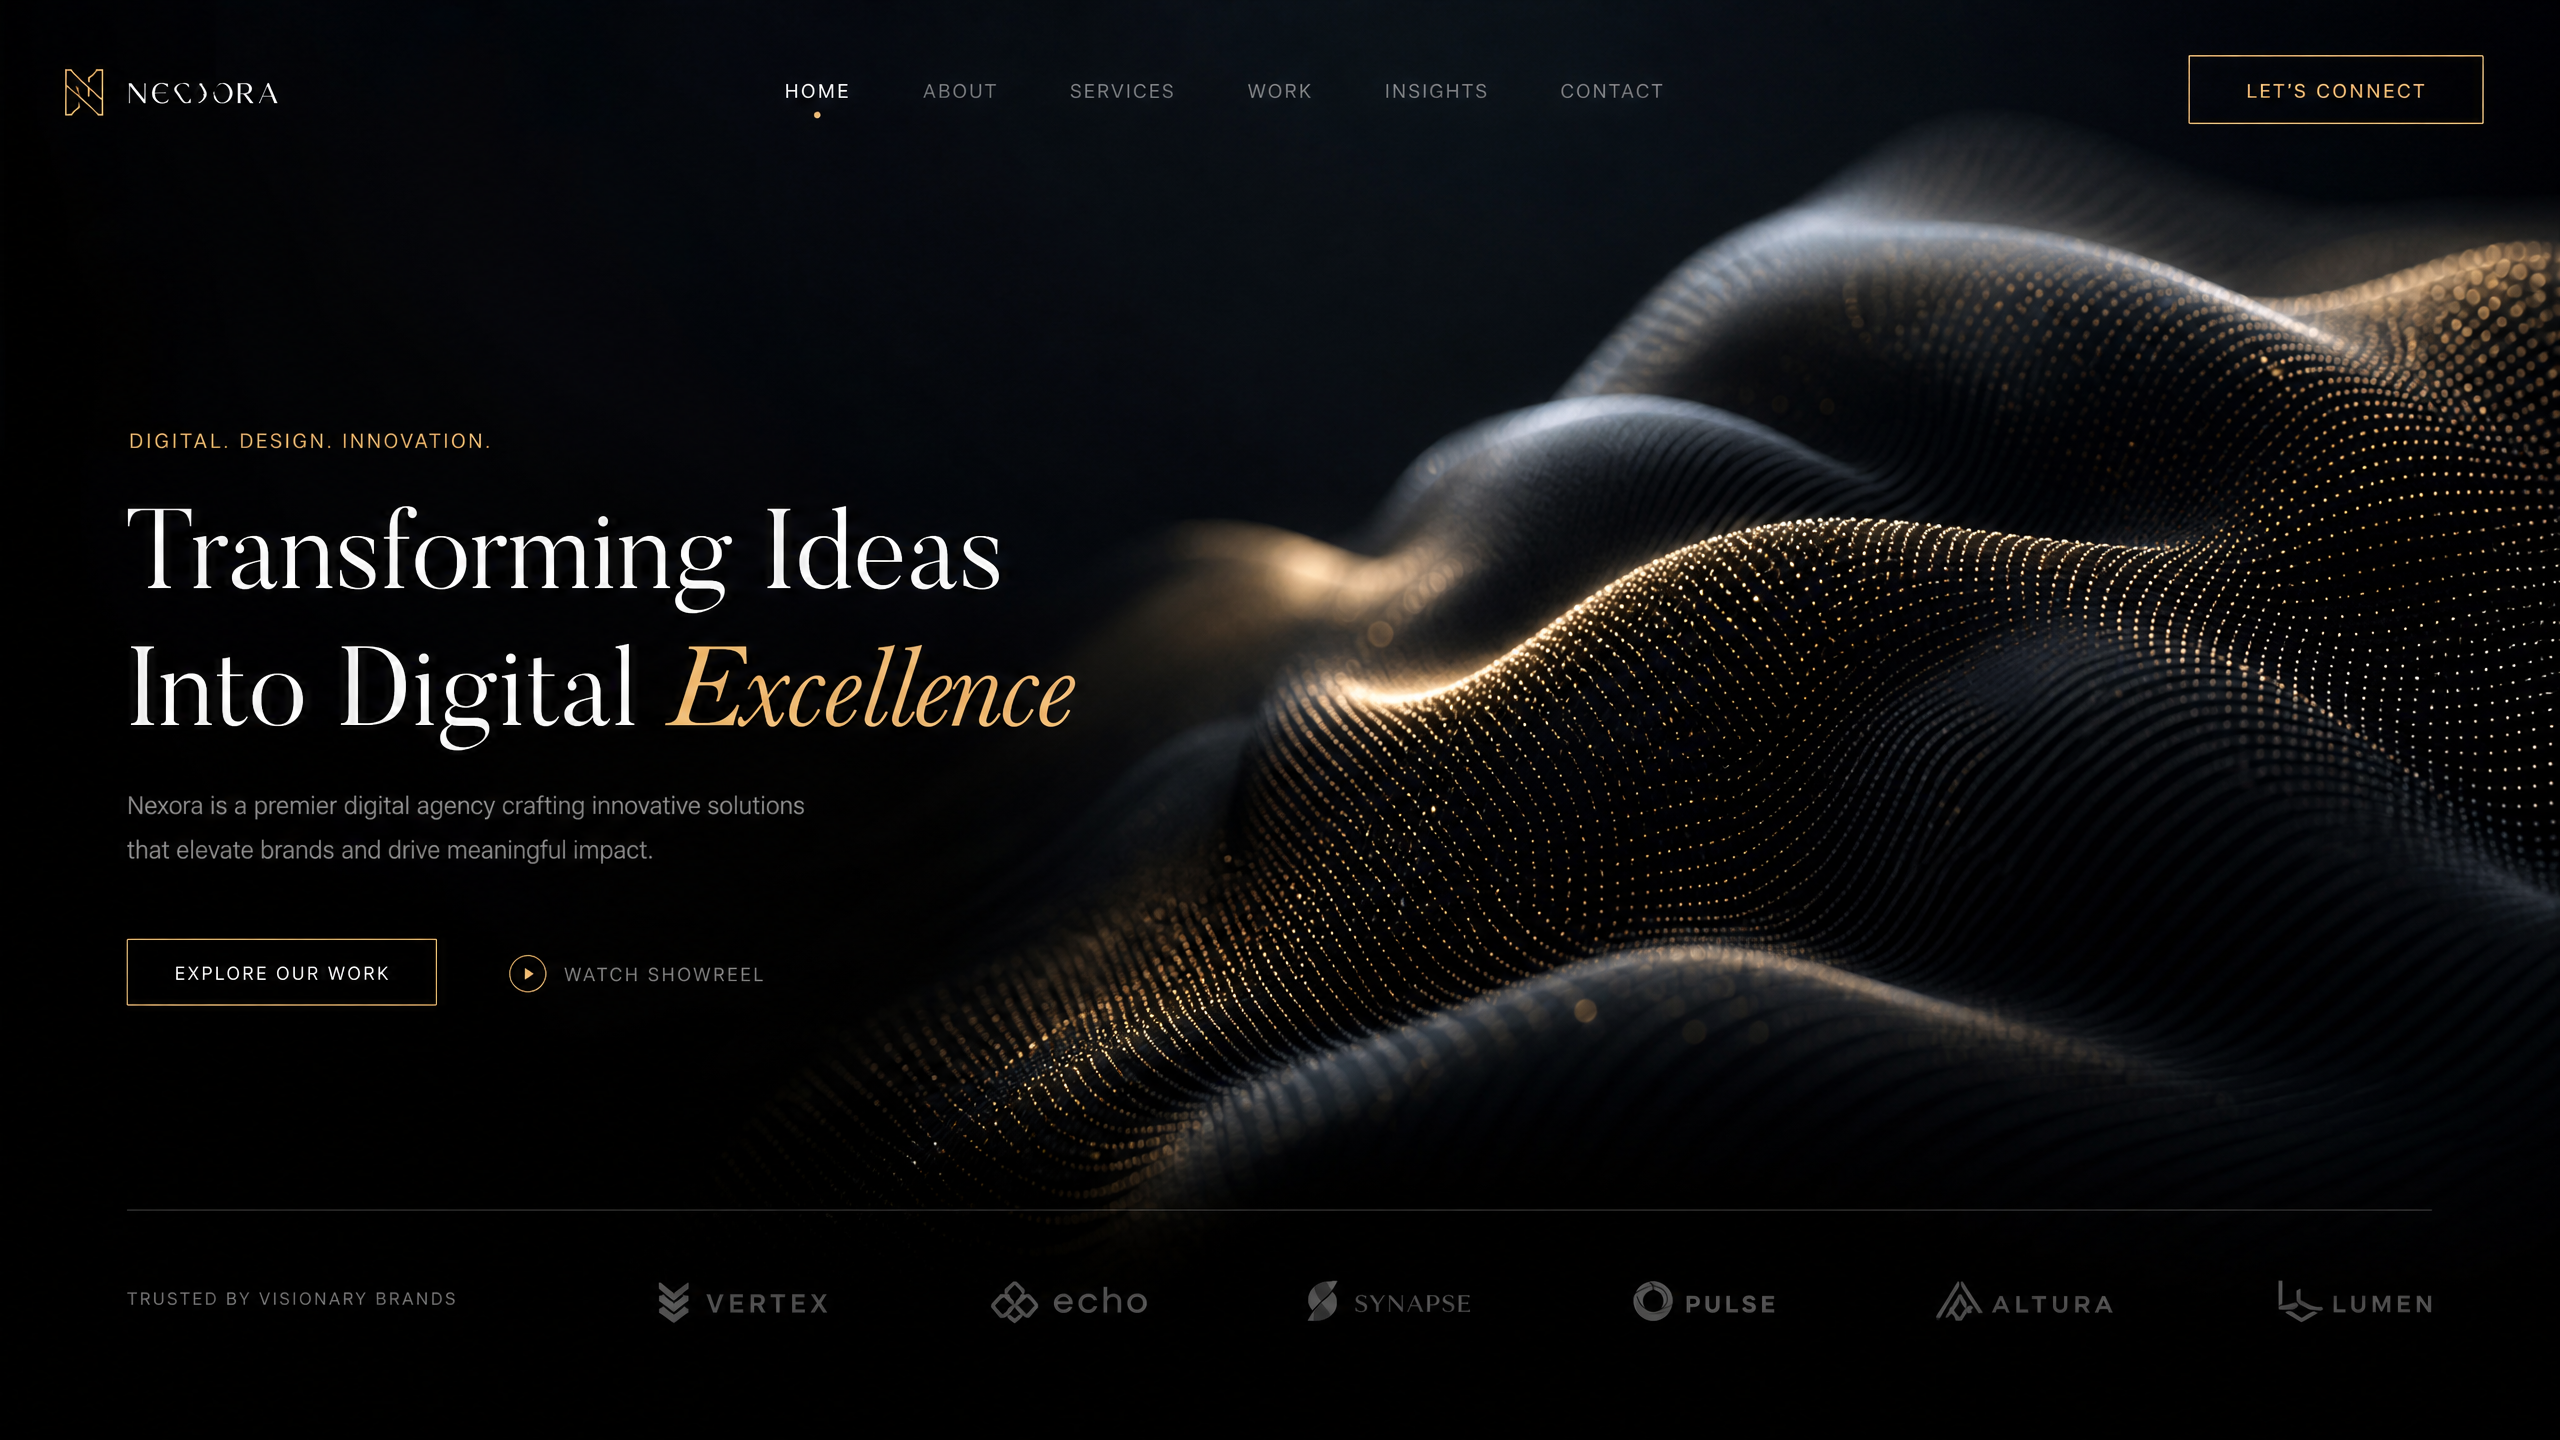
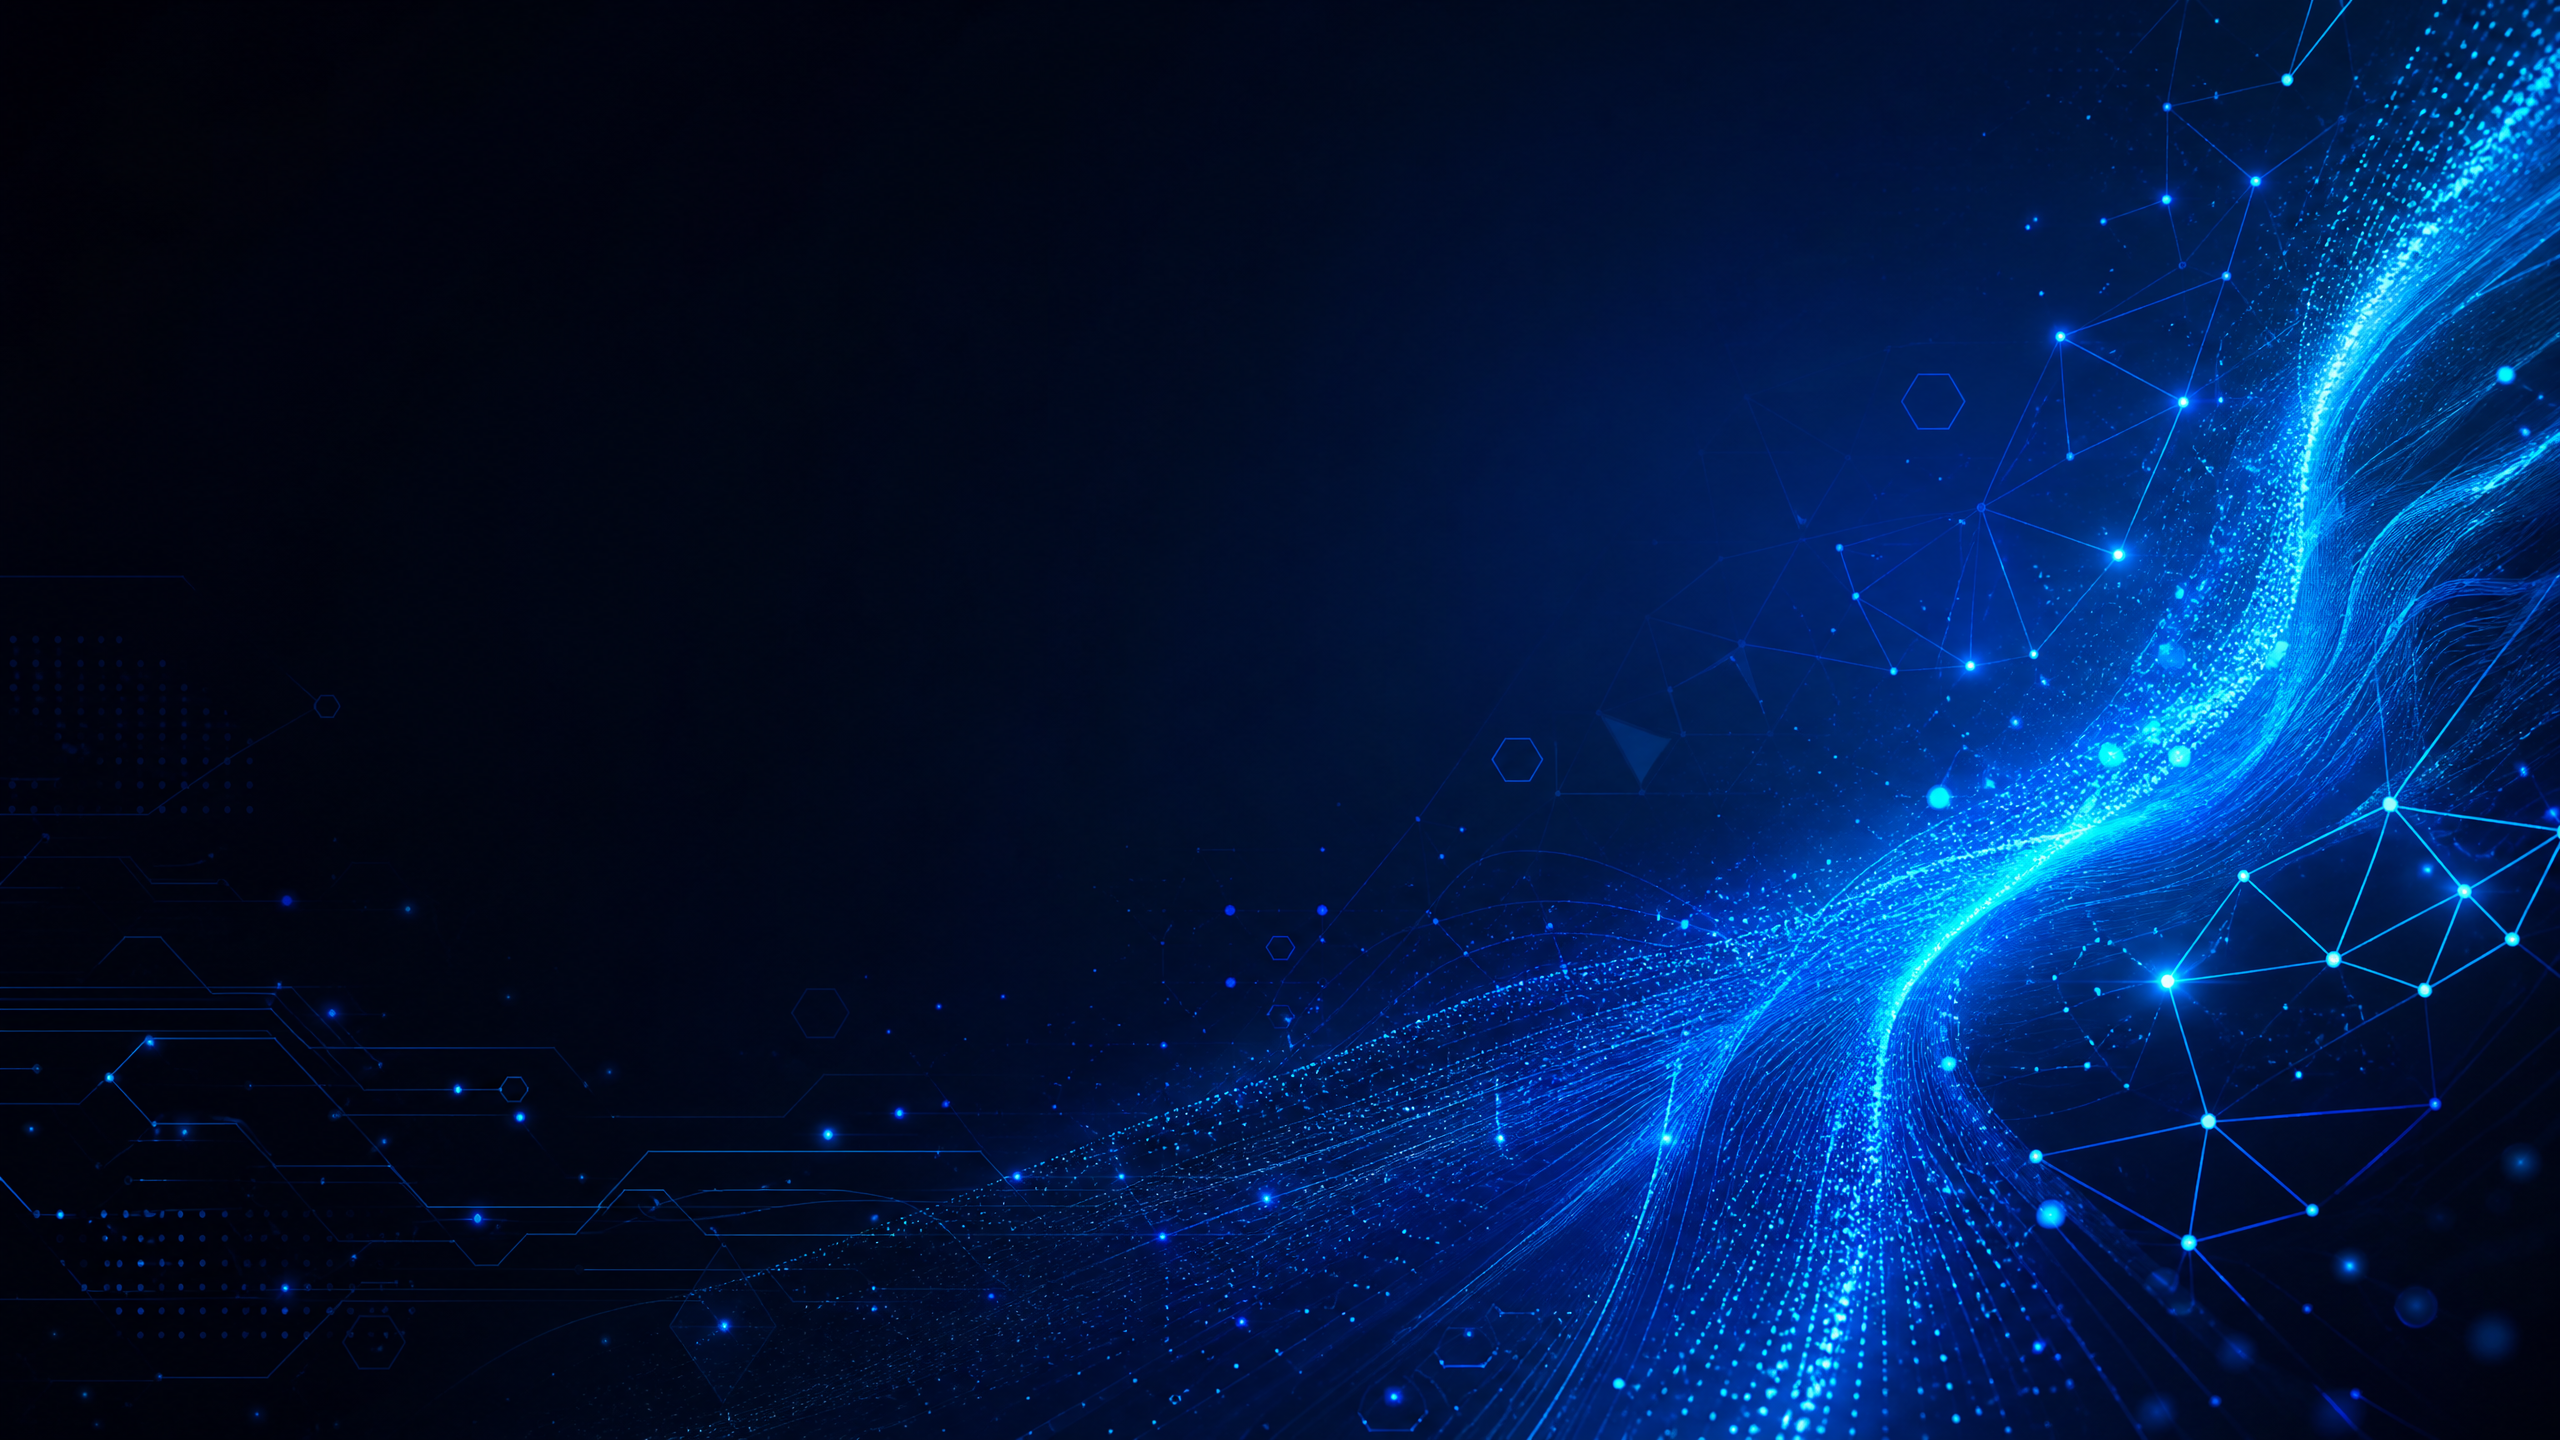
fix: إصلاح شامل - خلفية Hero جديدة، إخفاء زر اللغة على الهاتف، إصلاح عداد الإحصائيات، تحسين CSS للهاتف

diff --git a/script.js b/script.js
@@ -93,40 +93,51 @@ window.addEventListener('scroll', () => {
     lastScrollTop = scrollTop;
 });
 
-// Counter Animation for Statistics
+// Counter Animation for Statistics - Fixed
 function animateCounter(element, target, duration = 2000) {
     let current = 0;
-    const increment = target / (duration / 16);
+    const step = target / Math.ceil(duration / 16);
+    let startTime = null;
     
-    const counter = setInterval(() => {
-        current += increment;
-        if (current >= target) {
-            element.textContent = target;
-            clearInterval(counter);
+    function update(timestamp) {
+        if (!startTime) startTime = timestamp;
+        const elapsed = timestamp - startTime;
+        const progress = Math.min(elapsed / duration, 1);
+        current = Math.floor(progress * target);
+        element.textContent = current;
+        
+        if (progress < 1) {
+            requestAnimationFrame(update);
         } else {
-            element.textContent = Math.floor(current);
+            element.textContent = target;
         }
-    }, 16);
+    }
+    
+    requestAnimationFrame(update);
 }
 
 // Trigger counter animation when section is visible
-const statsSection = document.querySelector('.stats-section');
-if (statsSection) {
-    const statsObserver = new IntersectionObserver((entries) => {
-        entries.forEach(entry => {
-            if (entry.isIntersecting) {
-                const counters = entry.target.querySelectorAll('[data-count]');
-                counters.forEach(counter => {
-                    const target = parseInt(counter.getAttribute('data-count'));
-                    animateCounter(counter, target);
-                });
-                statsObserver.unobserve(entry.target);
-            }
-        });
-    }, { threshold: 0.5 });
-    
-    statsObserver.observe(statsSection);
-}
+document.addEventListener('DOMContentLoaded', function() {
+    const statsSection = document.querySelector('.stats-section');
+    if (statsSection) {
+        const statsObserver = new IntersectionObserver((entries) => {
+            entries.forEach(entry => {
+                if (entry.isIntersecting) {
+                    const counters = entry.target.querySelectorAll('[data-count]');
+                    counters.forEach(counter => {
+                        const target = parseInt(counter.getAttribute('data-count'));
+                        if (target > 0) {
+                            animateCounter(counter, target);
+                        }
+                    });
+                    statsObserver.unobserve(entry.target);
+                }
+            });
+        }, { threshold: 0.3 });
+        
+        statsObserver.observe(statsSection);
+    }
+});
 
 // Form Validation and Submission
 const contactForm = document.querySelector('.contact-form');

diff --git a/styles.css b/styles.css
@@ -874,3 +874,32 @@ header button {
 .language-switcher-dropdown a:hover {
     background-color: #2a2a2a;
 }
+
+/* Fix: Hide language switcher on mobile */
+@media (max-width: 768px) {
+    .language-switcher {
+        display: none !important;
+    }
+    
+    /* Ensure hero background covers properly on mobile */
+    .hero-section {
+        background-size: cover !important;
+        background-position: center !important;
+    }
+    
+    /* Fix pricing cards on mobile */
+    .pricing-card {
+        width: 100% !important;
+        margin: 0 auto 1.5rem !important;
+    }
+    
+    /* Fix stats text size on mobile */
+    .stats-section h3 {
+        font-size: 2.5rem !important;
+    }
+    
+    /* Ensure mobile menu covers everything */
+    #mobileMenu {
+        top: 64px !important;
+    }
+}

diff --git a/about.html b/about.html
@@ -30,7 +30,7 @@
                     <li><a href="faq.html" class="nav-link text-white hover:text-blue-400">الأسئلة الشائعة</a></li>
                     <li><a href="contact.html" class="nav-link text-white hover:text-blue-400">اتصل بنا</a></li>
                 </ul>
-                <div class="language-switcher">
+                <div class="language-switcher hidden md:block">
                     <button class="text-white text-sm font-semibold focus:outline-none">AR <span class="mr-1">▼</span></button>
                     <div class="language-switcher-dropdown">
                         <a href="#" onclick="setLanguage('en')">English</a>
@@ -162,19 +162,19 @@
                 <!-- Stats -->
                 <div class="mt-12 grid grid-cols-2 md:grid-cols-4 gap-6 max-w-4xl mx-auto stats-section">
                     <div class="p-6 bg-gray-800 rounded-xl text-center">
-                        <h3 class="text-4xl font-bold text-blue-400"><span data-count="1">1</span>+</h3>
+                        <h3 class="text-4xl font-bold text-blue-400"><span data-count="1">0</span>+</h3>
                         <p class="text-gray-300 mt-2">سنة خبرة</p>
                     </div>
                     <div class="p-6 bg-gray-800 rounded-xl text-center">
-                        <h3 class="text-4xl font-bold text-blue-400"><span data-count="35">35</span>+</h3>
+                        <h3 class="text-4xl font-bold text-blue-400"><span data-count="35">0</span>+</h3>
                         <p class="text-gray-300 mt-2">مشروع ناجح</p>
                     </div>
                     <div class="p-6 bg-gray-800 rounded-xl text-center">
-                        <h3 class="text-4xl font-bold text-blue-400"><span data-count="25">25</span>+</h3>
+                        <h3 class="text-4xl font-bold text-blue-400"><span data-count="25">0</span>+</h3>
                         <p class="text-gray-300 mt-2">عميل راضٍ</p>
                     </div>
                     <div class="p-6 bg-gray-800 rounded-xl text-center">
-                        <h3 class="text-4xl font-bold text-blue-400"><span data-count="98">98</span>%</h3>
+                        <h3 class="text-4xl font-bold text-blue-400"><span data-count="98">0</span>%</h3>
                         <p class="text-gray-300 mt-2">رضا العملاء</p>
                     </div>
                 </div>

diff --git a/index.html b/index.html
@@ -30,7 +30,7 @@
                     <li><a href="faq.html" class="nav-link text-white hover:text-blue-400">الأسئلة الشائعة</a></li>
                     <li><a href="contact.html" class="nav-link text-white hover:text-blue-400">اتصل بنا</a></li>
                 </ul>
-                <div class="language-switcher">
+                <div class="language-switcher hidden md:block">
                     <button class="text-white text-sm font-semibold focus:outline-none">AR <span class="mr-1">▼</span></button>
                     <div class="language-switcher-dropdown">
                         <a href="#" onclick="setLanguage('en')">English</a>
@@ -107,19 +107,19 @@
             <div class="container mx-auto px-6">
                 <div class="grid grid-cols-2 md:grid-cols-4 gap-8">
                     <div class="p-6 bg-gray-800 rounded-xl shadow-lg">
-                        <h3 class="text-5xl font-bold text-blue-400 mb-2"><span data-count="1">1</span>+</h3>
+                        <h3 class="text-5xl font-bold text-blue-400 mb-2"><span data-count="1">0</span>+</h3>
                         <p class="text-gray-300 text-base">سنة خبرة</p>
                     </div>
                     <div class="p-6 bg-gray-800 rounded-xl shadow-lg">
-                        <h3 class="text-5xl font-bold text-blue-400 mb-2"><span data-count="35">35</span>+</h3>
+                        <h3 class="text-5xl font-bold text-blue-400 mb-2"><span data-count="35">0</span>+</h3>
                         <p class="text-gray-300 text-base">مشروع ناجح</p>
                     </div>
                     <div class="p-6 bg-gray-800 rounded-xl shadow-lg">
-                        <h3 class="text-5xl font-bold text-blue-400 mb-2"><span data-count="25">25</span>+</h3>
+                        <h3 class="text-5xl font-bold text-blue-400 mb-2"><span data-count="25">0</span>+</h3>
                         <p class="text-gray-300 text-base">عميل راضٍ</p>
                     </div>
                     <div class="p-6 bg-gray-800 rounded-xl shadow-lg">
-                        <h3 class="text-5xl font-bold text-blue-400 mb-2"><span data-count="98">98</span>%</h3>
+                        <h3 class="text-5xl font-bold text-blue-400 mb-2"><span data-count="98">0</span>%</h3>
                         <p class="text-gray-300 text-base">نسبة رضا العملاء</p>
                     </div>
                 </div>

diff --git a/404.html b/404.html
@@ -30,7 +30,7 @@
                     <li><a href="faq.html" class="nav-link text-white hover:text-blue-400">الأسئلة الشائعة</a></li>
                     <li><a href="contact.html" class="nav-link text-white hover:text-blue-400">اتصل بنا</a></li>
                 </ul>
-                <div class="language-switcher">
+                <div class="language-switcher hidden md:block">
                     <button class="text-white text-sm font-semibold focus:outline-none">AR <span class="mr-1">▼</span></button>
                     <div class="language-switcher-dropdown">
                         <a href="#" onclick="setLanguage('en')">English</a>

diff --git a/blog.html b/blog.html
@@ -30,7 +30,7 @@
                     <li><a href="faq.html" class="nav-link text-white hover:text-blue-400">الأسئلة الشائعة</a></li>
                     <li><a href="contact.html" class="nav-link text-white hover:text-blue-400">اتصل بنا</a></li>
                 </ul>
-                <div class="language-switcher">
+                <div class="language-switcher hidden md:block">
                     <button class="text-white text-sm font-semibold focus:outline-none">AR <span class="mr-1">▼</span></button>
                     <div class="language-switcher-dropdown">
                         <a href="#" onclick="setLanguage('en')">English</a>

diff --git a/contact.html b/contact.html
@@ -30,7 +30,7 @@
                     <li><a href="faq.html" class="nav-link text-white hover:text-blue-400">الأسئلة الشائعة</a></li>
                     <li><a href="contact.html" class="nav-link text-white hover:text-blue-400">اتصل بنا</a></li>
                 </ul>
-                <div class="language-switcher">
+                <div class="language-switcher hidden md:block">
                     <button class="text-white text-sm font-semibold focus:outline-none">AR <span class="mr-1">▼</span></button>
                     <div class="language-switcher-dropdown">
                         <a href="#" onclick="setLanguage('en')">English</a>

diff --git a/faq.html b/faq.html
@@ -30,7 +30,7 @@
                     <li><a href="faq.html" class="nav-link text-white hover:text-blue-400">الأسئلة الشائعة</a></li>
                     <li><a href="contact.html" class="nav-link text-white hover:text-blue-400">اتصل بنا</a></li>
                 </ul>
-                <div class="language-switcher">
+                <div class="language-switcher hidden md:block">
                     <button class="text-white text-sm font-semibold focus:outline-none">AR <span class="mr-1">▼</span></button>
                     <div class="language-switcher-dropdown">
                         <a href="#" onclick="setLanguage('en')">English</a>

diff --git a/portfolio.html b/portfolio.html
@@ -30,7 +30,7 @@
                     <li><a href="faq.html" class="nav-link text-white hover:text-blue-400">الأسئلة الشائعة</a></li>
                     <li><a href="contact.html" class="nav-link text-white hover:text-blue-400">اتصل بنا</a></li>
                 </ul>
-                <div class="language-switcher">
+                <div class="language-switcher hidden md:block">
                     <button class="text-white text-sm font-semibold focus:outline-none">AR <span class="mr-1">▼</span></button>
                     <div class="language-switcher-dropdown">
                         <a href="#" onclick="setLanguage('en')">English</a>

diff --git a/pricing.html b/pricing.html
@@ -30,7 +30,7 @@
                     <li><a href="faq.html" class="nav-link text-white hover:text-blue-400">الأسئلة الشائعة</a></li>
                     <li><a href="contact.html" class="nav-link text-white hover:text-blue-400">اتصل بنا</a></li>
                 </ul>
-                <div class="language-switcher">
+                <div class="language-switcher hidden md:block">
                     <button class="text-white text-sm font-semibold focus:outline-none">AR <span class="mr-1">▼</span></button>
                     <div class="language-switcher-dropdown">
                         <a href="#" onclick="setLanguage('en')">English</a>

diff --git a/privacy.html b/privacy.html
@@ -30,7 +30,7 @@
                     <li><a href="faq.html" class="nav-link text-white hover:text-blue-400">الأسئلة الشائعة</a></li>
                     <li><a href="contact.html" class="nav-link text-white hover:text-blue-400">اتصل بنا</a></li>
                 </ul>
-                <div class="language-switcher">
+                <div class="language-switcher hidden md:block">
                     <button class="text-white text-sm font-semibold focus:outline-none">AR <span class="mr-1">▼</span></button>
                     <div class="language-switcher-dropdown">
                         <a href="#" onclick="setLanguage('en')">English</a>

diff --git a/services.html b/services.html
@@ -30,7 +30,7 @@
                     <li><a href="faq.html" class="nav-link text-white hover:text-blue-400">الأسئلة الشائعة</a></li>
                     <li><a href="contact.html" class="nav-link text-white hover:text-blue-400">اتصل بنا</a></li>
                 </ul>
-                <div class="language-switcher">
+                <div class="language-switcher hidden md:block">
                     <button class="text-white text-sm font-semibold focus:outline-none">AR <span class="mr-1">▼</span></button>
                     <div class="language-switcher-dropdown">
                         <a href="#" onclick="setLanguage('en')">English</a>